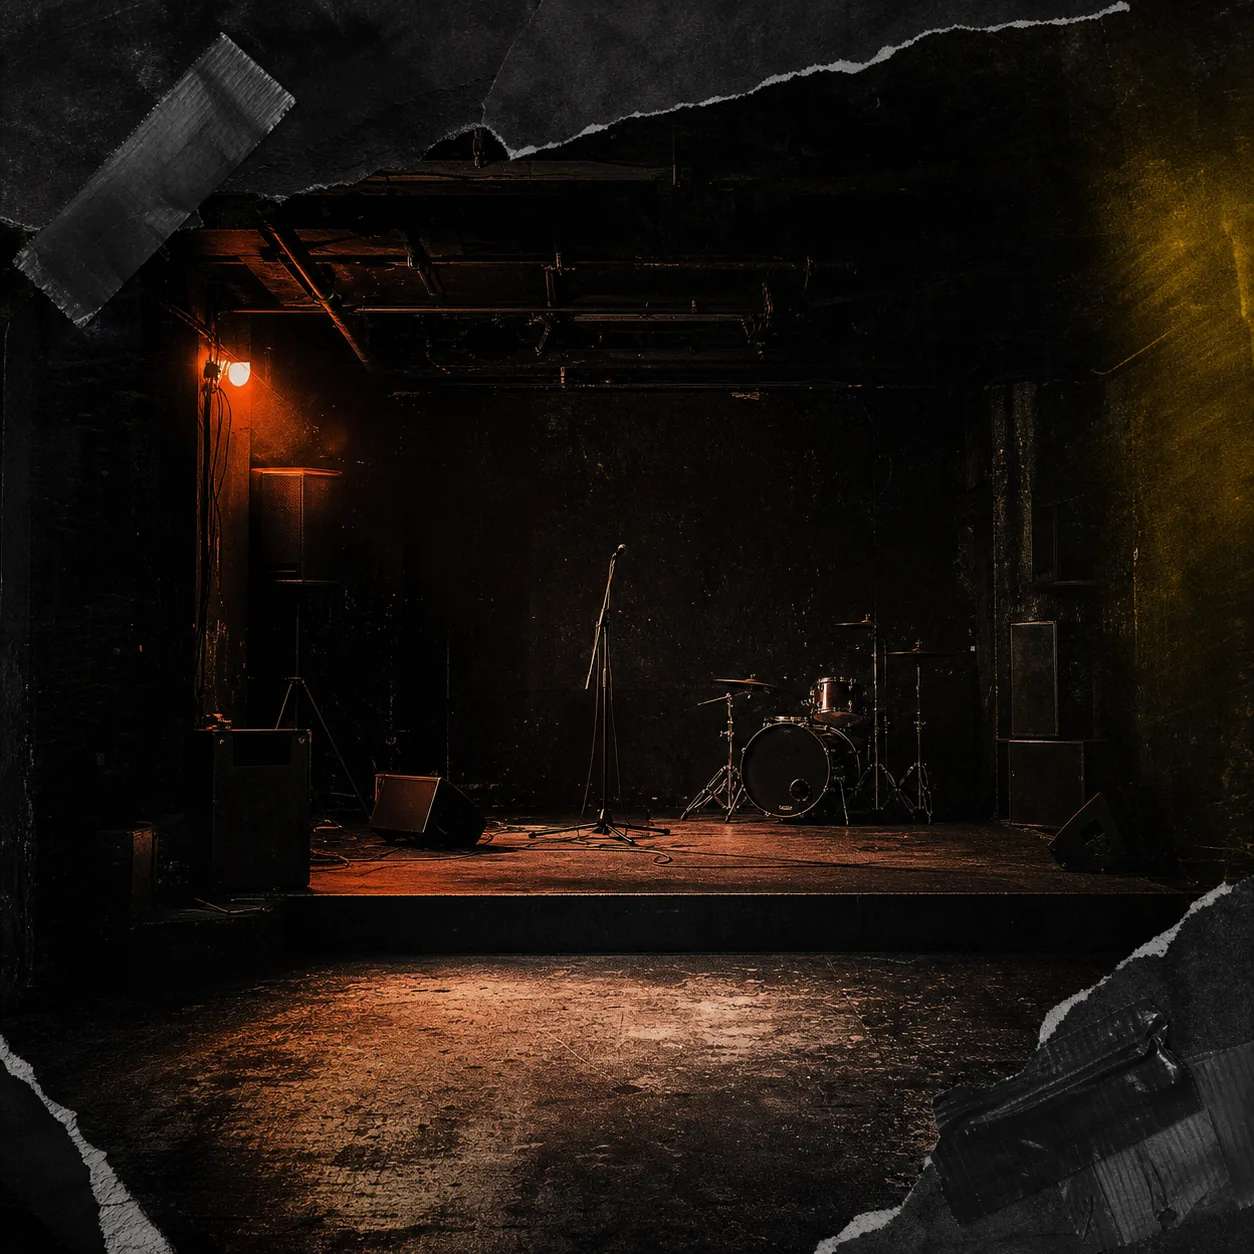
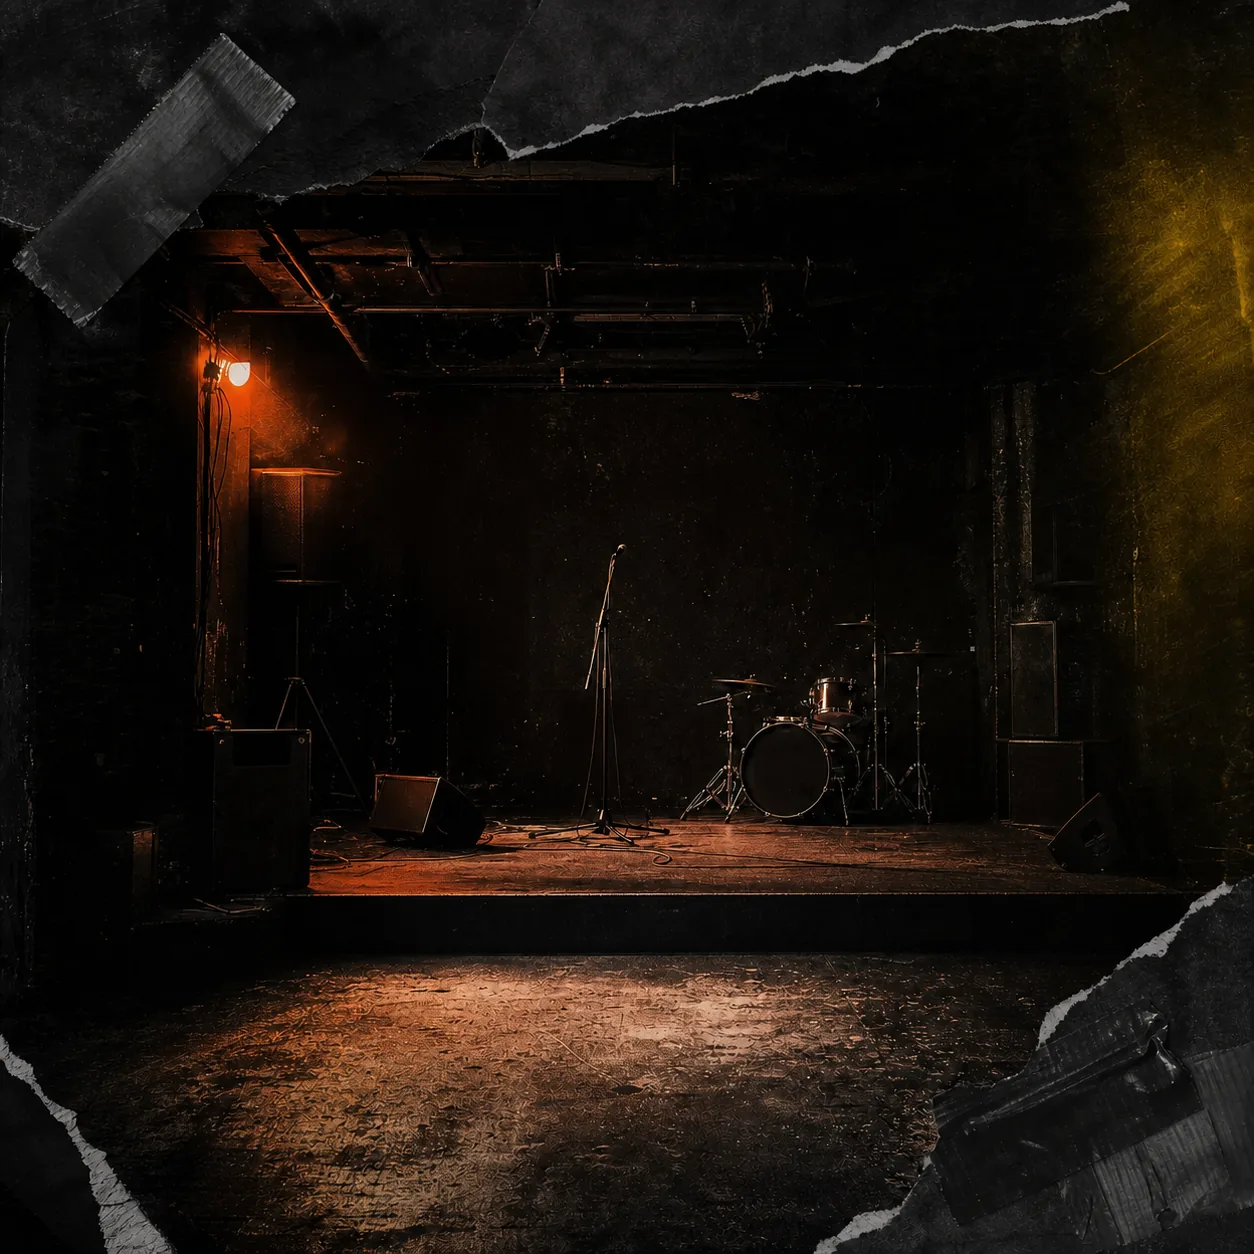
fix: remove generated mark from rock artwork

diff --git a/public/assets/themes/README.md b/public/assets/themes/README.md
@@ -1,8 +1,8 @@
 # Theme artwork provenance
 
-These seven ambient images were generated for My Navidrome with the built-in OpenAI image generator on 2026-07-10. No album cover, artist image, library screenshot, user identity, server address, listening history, or other user data was supplied as a reference.
+These seven ambient images were generated for My Navidrome with the built-in OpenAI image generator on 2026-07-10. The Rock image received one localized brand-mark cleanup edit with the same built-in generator on 2026-07-11. No album cover, artist image, library screenshot, user identity, server address, listening history, or other user data was supplied as a reference.
 
-The untouched generator outputs remain in the local Codex generated-image store under generation `019f4b4e-b90c-7512-a0e5-258261c497f4`. Only normalized delivery assets are committed here.
+The original generator outputs and localized Rock edit remain in the local Codex generated-image store under generation `019f4b4e-b90c-7512-a0e5-258261c497f4`. Only normalized delivery assets are committed here.
 
 ## Prompts
 
@@ -34,9 +34,15 @@ The untouched generator outputs remain in the local Codex generated-image store 
 
 > Create a square 2048 by 2048 original crop-safe late-night listening lounge atmosphere, empty and abstracted: deep black-green room, slow translucent teal smoke, thin brushed-brass arcs and low pools of warm light, refined art-deco geometry kept near the perimeter, calm dark center. No musician, no guest, no bottles, no labels, no signage, no real venue, no text, no letters, no numbers.
 
+## Rock cleanup edit
+
+The first Rock output contained a tiny generated pseudo-wordmark on the bass-drum head. No external reference was added. The built-in editor received this exact instruction, and the edited output is stored as `exec-840c88b1-de3e-45e3-9329-dc52e1032d4d.png`:
+
+> Edit this exact image with the smallest possible localized change. On the bass drum head near the center-right of the stage, remove the tiny white pseudo-wordmark/brand mark near the bottom of the drum head. Replace it with matching plain matte black drum-head texture and natural low-light grain. Preserve the entire stage composition, lighting, drum kit geometry, torn-paper border, tape, colors, crop, and every other detail unchanged. Do not add any text, logo, symbol, signature, watermark, label, people, poster, or branded equipment.
+
 ## Processing
 
-- Prism, Bloom, Rock, Cinematic, and Lounge were center-cropped, converted to sRGB RGB, capped at 1600 px, and exported as metadata-free WebP at quality 82.
+- Prism, Bloom, Rock, Cinematic, and Lounge were center-cropped, converted to sRGB RGB, capped at 1600 px, and exported as metadata-free WebP at quality 82. Rock was normalized again from the cleaned edit.
 - Cyber was center-cropped, wrap-shifted, seam-softened, resized to 1024 px, and exported as metadata-free WebP at quality 82.
 - Pixel was wrap-shifted, reduced to a 32 by 32 logical grid, quantized to 32 colors without dithering, and enlarged with nearest-neighbor sampling to a 256 by 256 indexed PNG.
 - A generated contact sheet was inspected for text, logos, people, recognizable intellectual property, center obstruction, and obvious crop failures before the assets were committed.
